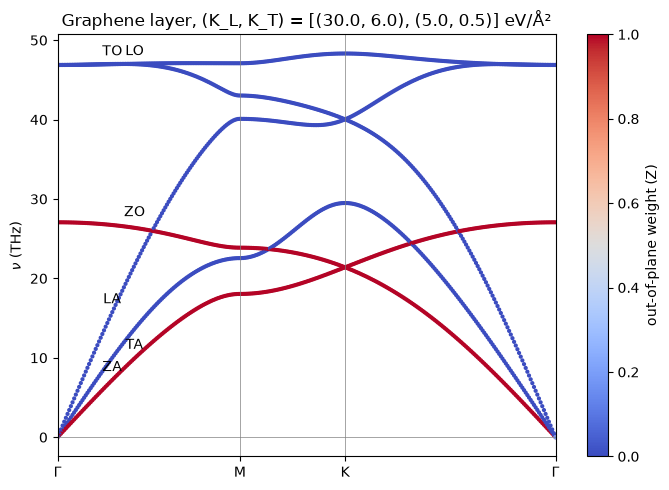
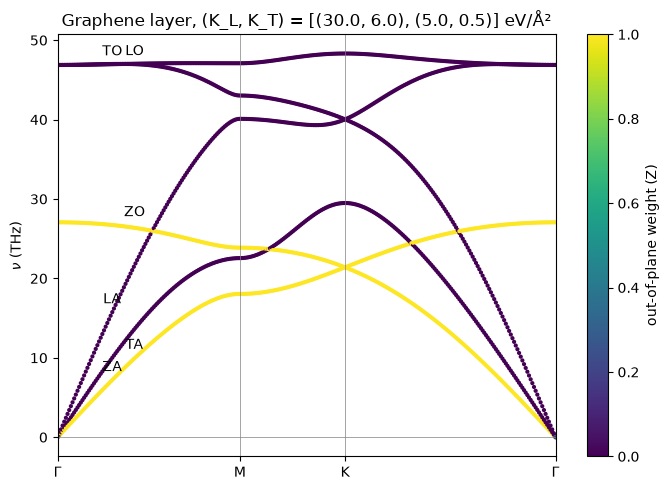
plot_bands(..., weights, weight_label): branches as dots coloured by weight
Graphene layer and nanoribbon examples drop their copied band-plot
decoration; the nanoribbon runs along Γ-X. One colour map (viridis, 0..1);
weights of wrong shape or outside [0, 1] raise. README image regenerated.

diff --git a/examples/lattices_2d/nanoribbon.py b/examples/lattices_2d/nanoribbon.py
@@ -1,8 +1,8 @@
 """In-plane phonons of a zigzag graphene nanoribbon, a strip periodic along x with free edges.
 
 The ribbon is a crystal with one lattice vector in 2D (periodicity p = 1, dimension
-d = 2): periodic along x, free across. Its bands are plotted against q_x and coloured by the
-weight of each mode on the edge atoms. The lowest branch rises as q_x^2 (in-plane
+d = 2): periodic along x, free across. Its bands are plotted along Γ-X (q along x, X = pi/a)
+and coloured by the weight of each mode on the edge atoms. The lowest branch rises as q_x^2 (in-plane
 bending of the strip). Some modes carry most of their weight on the edges: with
 8 rows, up to about 70 % on the outer 25 % of the atoms.
 """
@@ -12,7 +12,8 @@ import numpy as np
 
 from latticephys.lattice.bonds import neighbour_bonds
 from latticephys.lattice.crystal import Crystal
-from latticephys.lattice.plot import plot_crystal
+from latticephys.lattice.plot import plot_bands, plot_crystal
+from latticephys.lattice.reciprocal import k_path
 from latticephys.phonons.modes import atom_weights, phonon_modes
 from latticephys.units import OMEGA_TO_THZ
 
@@ -39,20 +40,15 @@ def main():
     edge = np.zeros(2 * ROWS, dtype=bool)
     edge[: 2 * EDGE_ROWS] = edge[-2 * EDGE_ROWS :] = True
 
-    qs = np.linspace(0, np.pi / A, 200)
-    q_vectors = np.column_stack([qs, np.zeros_like(qs)])
-    omega, vectors = phonon_modes(ribbon, bonds, q_vectors)
+    qs, distance, corners = k_path([[0.0, 0.0], [np.pi / A, 0.0]], n=200)
+    omega, vectors = phonon_modes(ribbon, bonds, qs)
     frequencies = omega * OMEGA_TO_THZ
     weights = atom_weights(vectors, ribbon.dim)[:, :, edge].sum(axis=(2, 3))
 
     fig, (left, right) = plt.subplots(1, 2, figsize=(13, 5), width_ratios=[2, 1])
-    q_all = np.repeat(qs * A, frequencies.shape[1])
-    points = left.scatter(q_all, frequencies.ravel(), c=weights.ravel(), s=2, cmap="viridis", vmin=0, vmax=1)
-    fig.colorbar(points, ax=left, label="weight on edge atoms")
-    left.axhline(0, color="grey", lw=0.5)
-    left.set_xlabel(r"$q_x a$")
+    plot_bands(distance, frequencies, corners, ["Γ", "X"], ax=left, weights=weights,
+               weight_label="weight on edge atoms")
     left.set_ylabel(r"$\nu$ (THz)")
-    left.set_xticks([0, np.pi / 2, np.pi], ["0", r"$\pi/2$", r"$\pi$"])
     left.set_title(f"zigzag ribbon, {ROWS} rows; edge atoms are {edge.mean():.0%} of all")
 
     plot_crystal(ribbon, radii=[0.35] * 2 * ROWS, colors=["tab:orange" if e else "tab:blue" for e in edge], ax=right)

diff --git a/tests/test_plot.py b/tests/test_plot.py
@@ -79,3 +79,28 @@ def test_plot_points_marks_values_at_every_matching_corner():
     x = np.concatenate([line.get_xdata() for line in ax.lines[lines_before:]])
     y = np.concatenate([line.get_ydata() for line in ax.lines[lines_before:]])
     assert sorted(zip(x, y)) == [(0.0, 5.0), (0.0, 6.0), (2.0, 5.0), (2.0, 6.0), (3.5, 2.0)]
+
+
+def test_plot_bands_with_weights_draws_one_dot_per_frequency_and_a_colour_bar():
+    """Without weights one line per branch; with weights one dot per (q, branch) coloured by
+    its weight, and a colour bar with the weight label."""
+    distance, corners, labels = np.linspace(0, 1, 5), [0.0, 1.0], ["Γ", "X"]
+    frequencies = np.arange(10.0).reshape(5, 2)
+
+    ax = plot_bands(distance, frequencies, corners, labels)
+    assert len(ax.lines) == 2 + len(corners) + 1 and not ax.collections  # branches, corner and zero lines
+
+    weights = np.linspace(0, 1, 10).reshape(5, 2)
+    ax = plot_bands(distance, frequencies, corners, labels, weights=weights, weight_label="edge weight")
+    (dots,) = ax.collections
+    np.testing.assert_array_equal(dots.get_offsets(), np.column_stack([np.repeat(distance, 2), frequencies.ravel()]))
+    np.testing.assert_array_equal(dots.get_array(), weights.ravel())
+    (colour_bar,) = [other for other in ax.figure.axes if other is not ax]
+    assert colour_bar.get_ylabel() == "edge weight"
+
+
+@pytest.mark.parametrize("weights", [np.zeros((5, 1)), np.full((5, 2), 1.5)])
+def test_plot_bands_rejects_weights_of_wrong_shape_or_range(weights):
+    """Weights of another shape than the frequencies, or outside the colour range [0, 1], raise."""
+    with pytest.raises(ValueError):
+        plot_bands(np.linspace(0, 1, 5), np.zeros((5, 2)), [0.0, 1.0], ["Γ", "X"], weights=weights)

diff --git a/src/latticephys/lattice/plot.py b/src/latticephys/lattice/plot.py
@@ -140,12 +140,26 @@ def plot_brillouin_zone(vectors, ax=None):
     return ax
 
 
-def plot_bands(distance, frequencies, corners, labels, ax=None):
-    """Branches against the distance along a k-path, with the k-points as ticks."""
+def plot_bands(distance, frequencies, corners, labels, ax=None, weights=None, weight_label=None):
+    """Branches against the distance along a k-path, with the k-points as ticks.
+
+    weights: optional, shape of frequencies, values in [0, 1] (e.g. from atom_weights()); the
+             branches are then dots coloured by weight, with a colour bar labelled weight_label
+    """
     if ax is None:
         _, ax = plt.subplots(figsize=(6, 4))
 
-    ax.plot(distance, frequencies, color="tab:blue")
+    if weights is None:
+        ax.plot(distance, frequencies, color="tab:blue")
+    else:
+        frequencies, weights = np.asarray(frequencies), np.asarray(weights)
+        if weights.shape != frequencies.shape:
+            raise ValueError(f"weights must have the shape of frequencies {frequencies.shape}, got {weights.shape}")
+        if weights.min() < -1e-9 or weights.max() > 1 + 1e-9:
+            raise ValueError("weights must lie in [0, 1], the range of the colour bar")
+        dots = ax.scatter(np.repeat(distance, frequencies.shape[1]), frequencies.ravel(), c=weights.ravel(),
+                          s=4, cmap="viridis", vmin=0, vmax=1)
+        ax.figure.colorbar(dots, ax=ax, label=weight_label)
     for corner in corners:
         ax.axvline(corner, color="grey", lw=0.5)
     ax.axhline(0, color="grey", lw=0.5)

diff --git a/examples/layers/graphene_layer.py b/examples/layers/graphene_layer.py
@@ -22,6 +22,7 @@ import numpy as np
 
 from latticephys.lattice.bonds import neighbour_bonds
 from latticephys.lattice.crystal import embed
+from latticephys.lattice.plot import plot_bands
 from latticephys.lattice.reciprocal import k_path, special_points
 from latticephys.lattice.structures import honeycomb
 from latticephys.phonons.modes import atom_weights, phonon_modes
@@ -54,20 +55,14 @@ def main():
     out_of_plane = atom_weights(eigenvectors, layer.dim)[..., 2].sum(axis=-1)  # z of all atoms
 
     fig, ax = plt.subplots(figsize=(7, 5))
-    dots = ax.scatter(np.repeat(distance, frequencies.shape[1]), frequencies.ravel(), c=out_of_plane.ravel(),
-                      cmap="coolwarm", vmin=0, vmax=1, s=4)
-    fig.colorbar(dots, ax=ax, label="out-of-plane weight (Z)")
+    plot_bands(distance, frequencies, corners, LABELS, ax=ax, weights=out_of_plane,
+               weight_label="out-of-plane weight (Z)")
 
     i = np.searchsorted(distance, LABEL_AT * corners[1])
     for branch, nu in enumerate(frequencies[i]):
         ax.annotate(branch_label(eigenvectors[i][:, branch], qs[i]), (distance[i], nu),
                     xytext=(16 * (branch % 2), 4), textcoords="offset points", ha="center", va="bottom")
 
-    for corner in corners:
-        ax.axvline(corner, color="grey", lw=0.5)
-    ax.axhline(0, color="grey", lw=0.5)
-    ax.set_xticks(corners, LABELS)
-    ax.set_xlim(corners[0], corners[-1])
     ax.set_ylabel(r"$\nu$ (THz)")
     ax.set_title(f"Graphene layer, (K_L, K_T) = {SPRING_CONSTANTS} eV/Å²")
 

diff --git a/examples/README.md b/examples/README.md
@@ -35,7 +35,7 @@ Run from the repo root, e.g. `.venv/bin/python examples/chains/wave_packet.py`. 
 | `transverse_springs.py` | Square lattice: central springs leave Γ–X floppy, (K_L, K_T) springs give shear stiffness | `neighbour_bonds` with (K_L, K_T), `plot_bands` |
 | `sound_velocities_2d.py` | Sound velocity against direction; c_L/c_T = √3 (Cauchy relation) | `sound_velocities` |
 | `structure_factor_2d.py` | Graphene S(Q, ω) along Γ–M over three zones: optical branches extinct at 3 b1, transverse ones invisible | `structure_factor`, `intensity_map` |
-| `nanoribbon.py` | Zigzag graphene ribbon: bands coloured by edge weight | `Crystal` with one lattice vector (p = 1), `phonon_modes`, `atom_weights` |
+| `nanoribbon.py` | Zigzag graphene ribbon: bands along Γ–X coloured by edge weight | `Crystal` with one lattice vector (p = 1), `k_path`, `phonon_modes`, `atom_weights`, `plot_bands` with weights |
 | `mermin_wagner.py` | ⟨u²⟩ against size: linear in 1D, logarithmic in 2D, finite in 3D | `mean_square_displacement` |
 | `kagome_lieb.py` | Floppy modes of kagome and Lieb (CuO₂) lattices, rigid unit mode at M | `kagome`, `lieb`, `neighbour_bonds`, `dispersion` |
 
@@ -43,7 +43,7 @@ Run from the repo root, e.g. `.venv/bin/python examples/chains/wave_packet.py`. 
 
 | Example | Shows | Uses |
 |---|---|---|
-| `graphene_layer.py` | Graphene in 3D: ZA, TA, LA, ZO, TO, LO along Γ–M–K–Γ, coloured by out-of-plane weight; ZA linear without bending forces | `embed`, `neighbour_bonds` with (K_L, K_T), `special_points`, `k_path`, `phonon_modes`, `atom_weights` |
+| `graphene_layer.py` | Graphene in 3D: ZA, TA, LA, ZO, TO, LO along Γ–M–K–Γ, coloured by out-of-plane weight; ZA linear without bending forces | `embed`, `neighbour_bonds` with (K_L, K_T), `special_points`, `k_path`, `phonon_modes`, `atom_weights`, `plot_bands` with weights |
 | `bilayer_graphene.py` | AB bilayer: interlayer springs fitted to the Raman shear (31 cm⁻¹) and breathing (81 cm⁻¹) modes; published constants give ≈ 89 cm⁻¹ | `embed`, `honeycomb`, `bilayer`, `neighbour_bonds`, `special_points`, `k_path`, `dispersion` |
 
 ## 3D crystals (`crystals_3d/`)

diff --git a/.scratch/deepening/issues/04-plot-bands-weights.md b/.scratch/deepening/issues/04-plot-bands-weights.md
@@ -4,9 +4,9 @@
 
 **Blocked by:** 02
 
-**Status:** ready-for-agent
+**Status:** done
 
-- [ ] Test: with weights, one dot per frequency and a colour bar; without, unchanged
-- [ ] Graphene layer and nanoribbon examples use it
-- [ ] `docs/images/make_images.py` still produces the graphene layer image
-- [ ] `pytest`, `ruff check`, all examples headless
+- [x] Test: with weights, one dot per frequency and a colour bar; without, unchanged
+- [x] Graphene layer and nanoribbon examples use it
+- [x] `docs/images/make_images.py` still produces the graphene layer image
+- [x] `pytest`, `ruff check`, all examples headless
